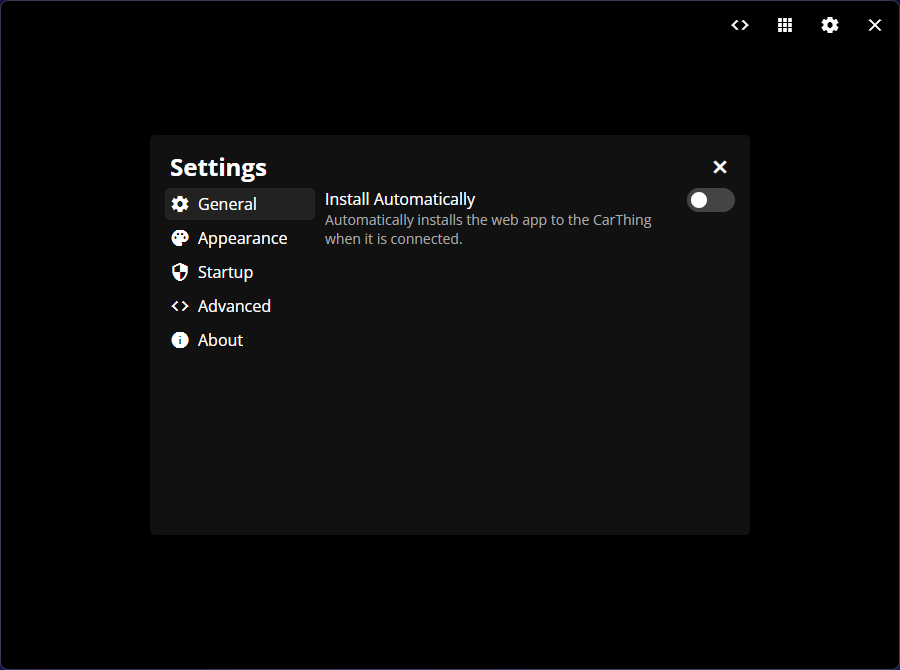
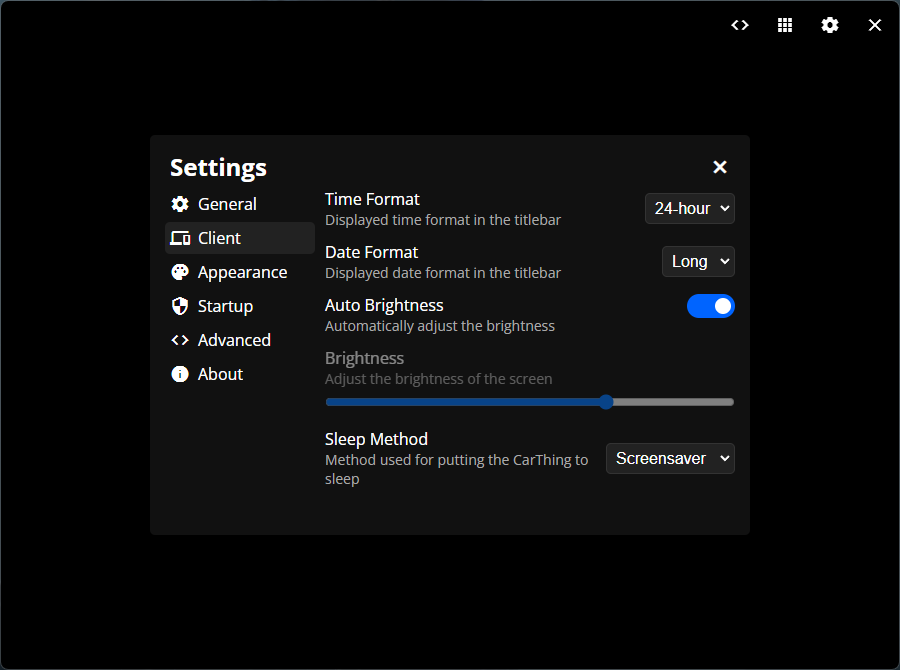
chore: update README to reflect new updates

diff --git a/README.md b/README.md
@@ -32,8 +32,7 @@ Here you will see your current Spotify player status, as well as your app shortc
 The buttons 1, 2 and 3 (from the left) will focus the Spotify, shortcuts and actions widgets respectively.
 
 Pressing the M button (right-most button) will bring up the system menu where you can choose to put your device to sleep, or restore your device to the original Spotify software.
-
-The button below the dial will unfocus any highligted widget, to avoid accidental actions or to have a cleaner look.
+<img src=".github/assets/menu.png" width="400" />
 
 Using the dial will:
 
@@ -47,6 +46,9 @@ Using the dial will:
   - Scroll: Scroll between items, wraps around.
 
 You can also use the album cover as a playback controller. Press once to play/pause, twice to skip forward and three times to skip backwards.
+
+Pressing the Back button (below the dial) reveals a fullscreen media player, which can be used with the same controls as the Spotify widgets, as well as extra tappable buttons like shuffle and repeat. Press the back button again or the arrow down icon to close.
+<img src=".github/assets/fullscreen.png" width="400" />
 
 ### Desktop companion
 
@@ -66,7 +68,7 @@ You can add new shortcuts by clicking the + button, choosing an icon and selecti
 
 <img src=".github/assets/settings.png" width="400" />
 
-Here you can adjust how the app behaves. You can choose if the GlanceThing desktop companion will automatically start with your computer, whether it will start minimized to the system tray, and whether it will attempt to automatically install GlanceThing to your CarThing once it's detected.
+Here you can adjust how the app behaves. You can choose if the GlanceThing desktop companion will automatically start with your computer, whether it will start minimized to the system tray, and whether it will attempt to automatically install GlanceThing to your CarThing once it's detected. You can also adjust some settings that will reflect in the GlanceThing client, for example brigtneas and date/time format.
 
 ### Tray icon
 
